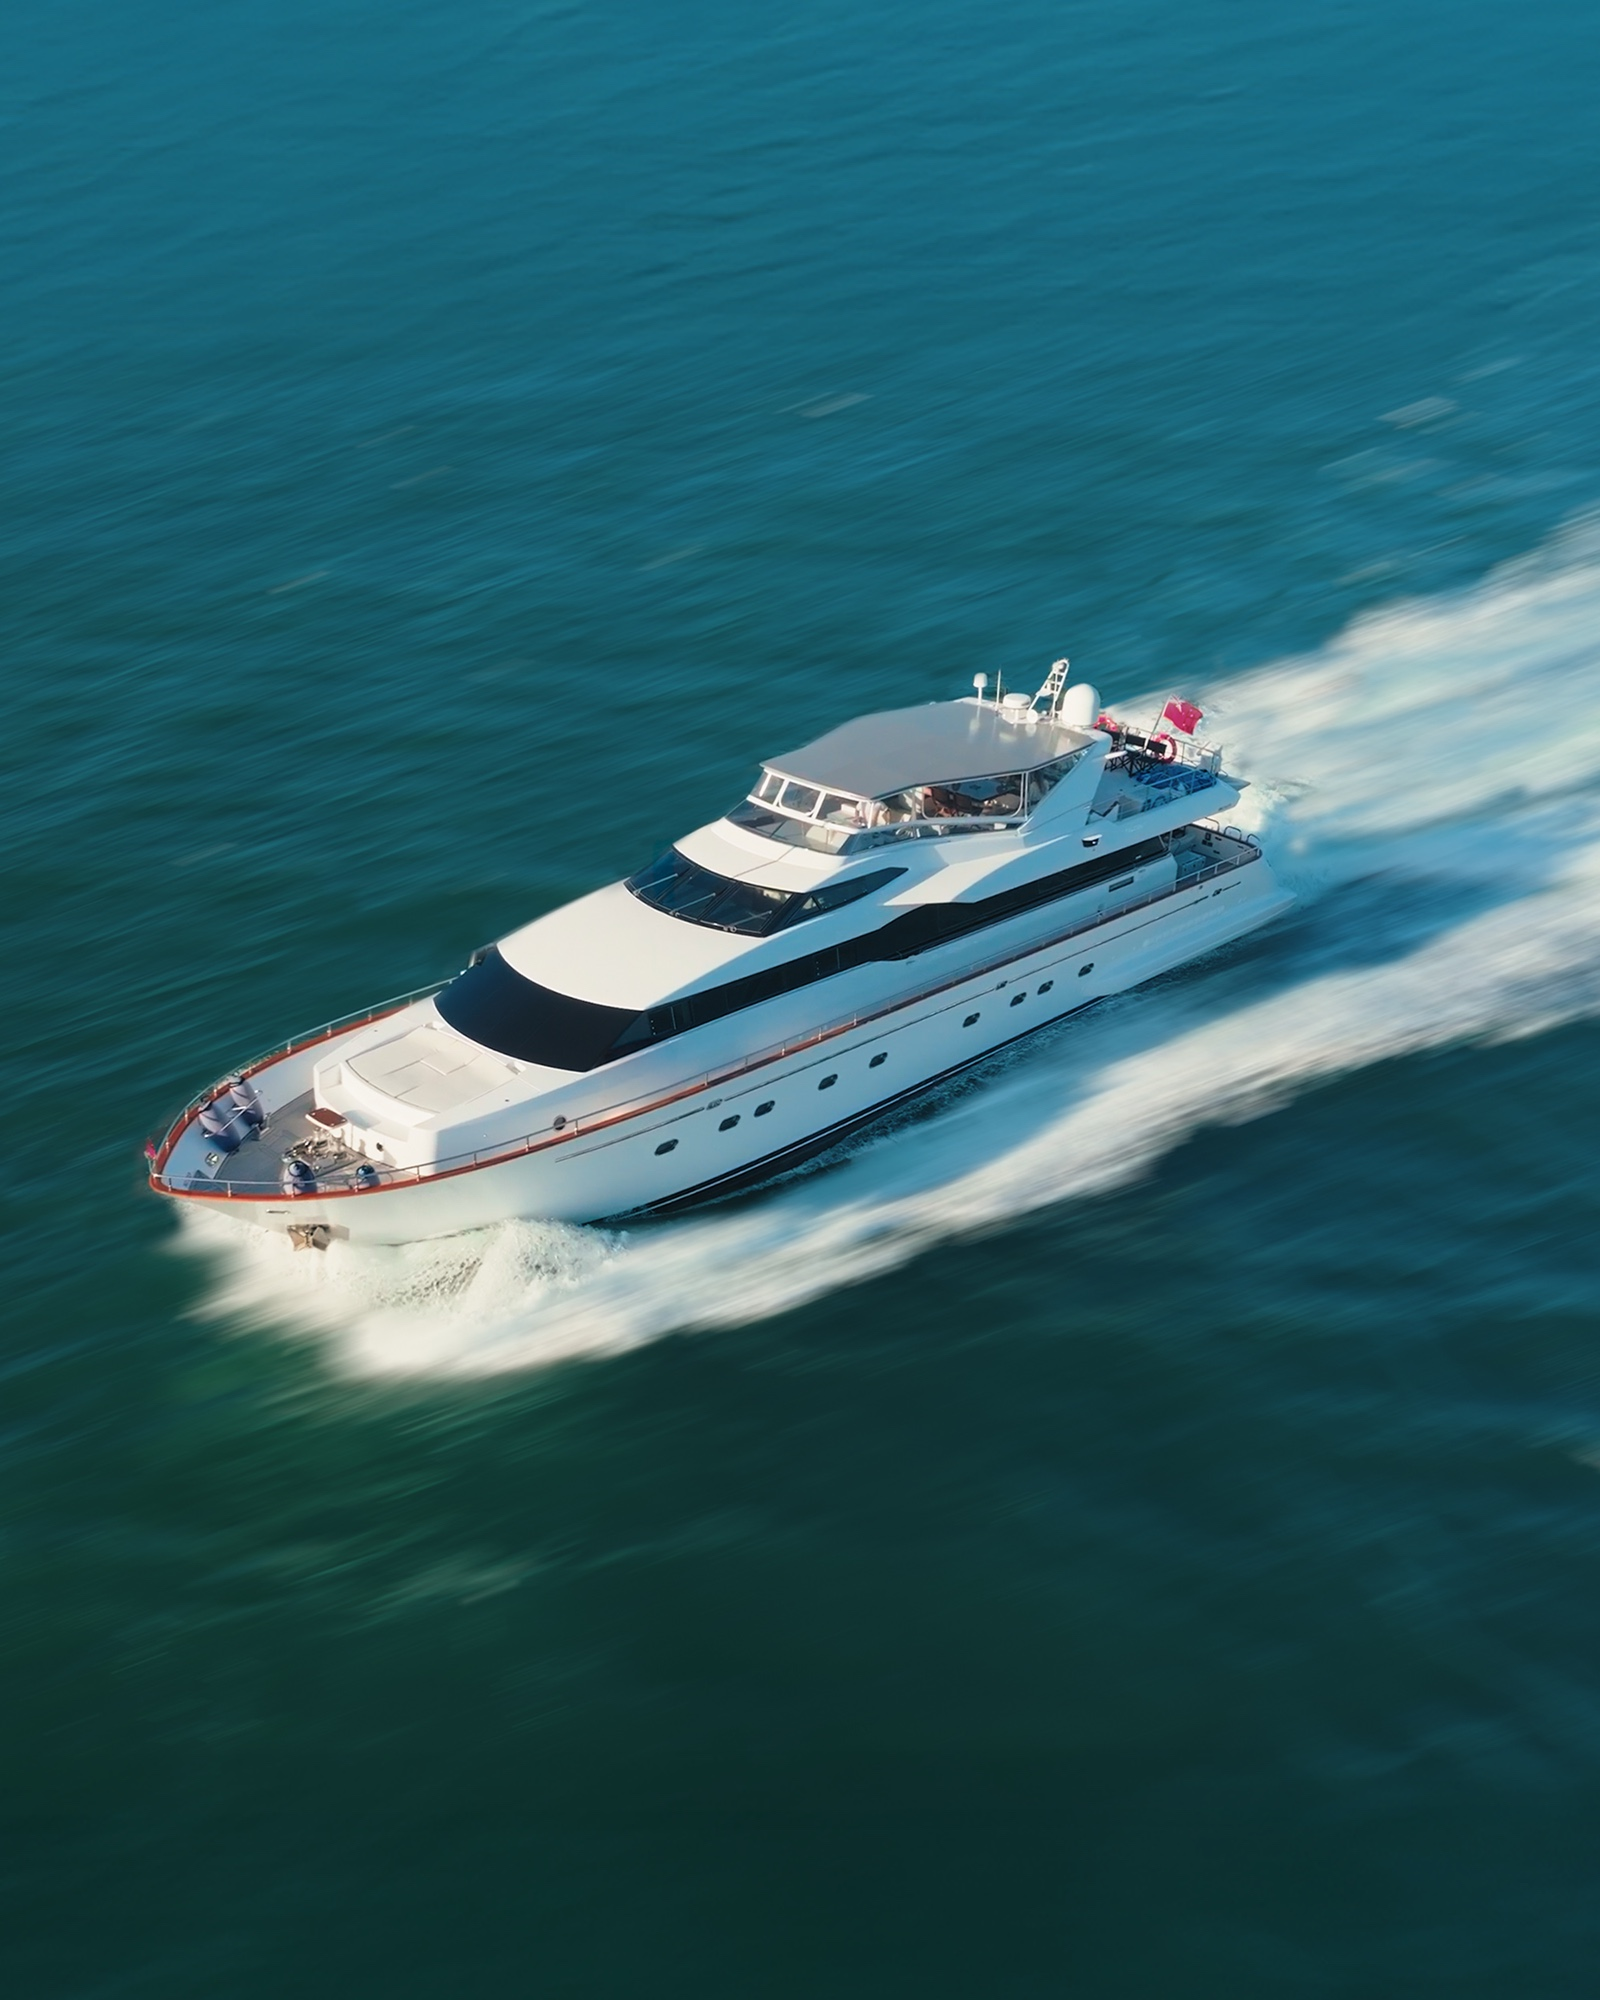
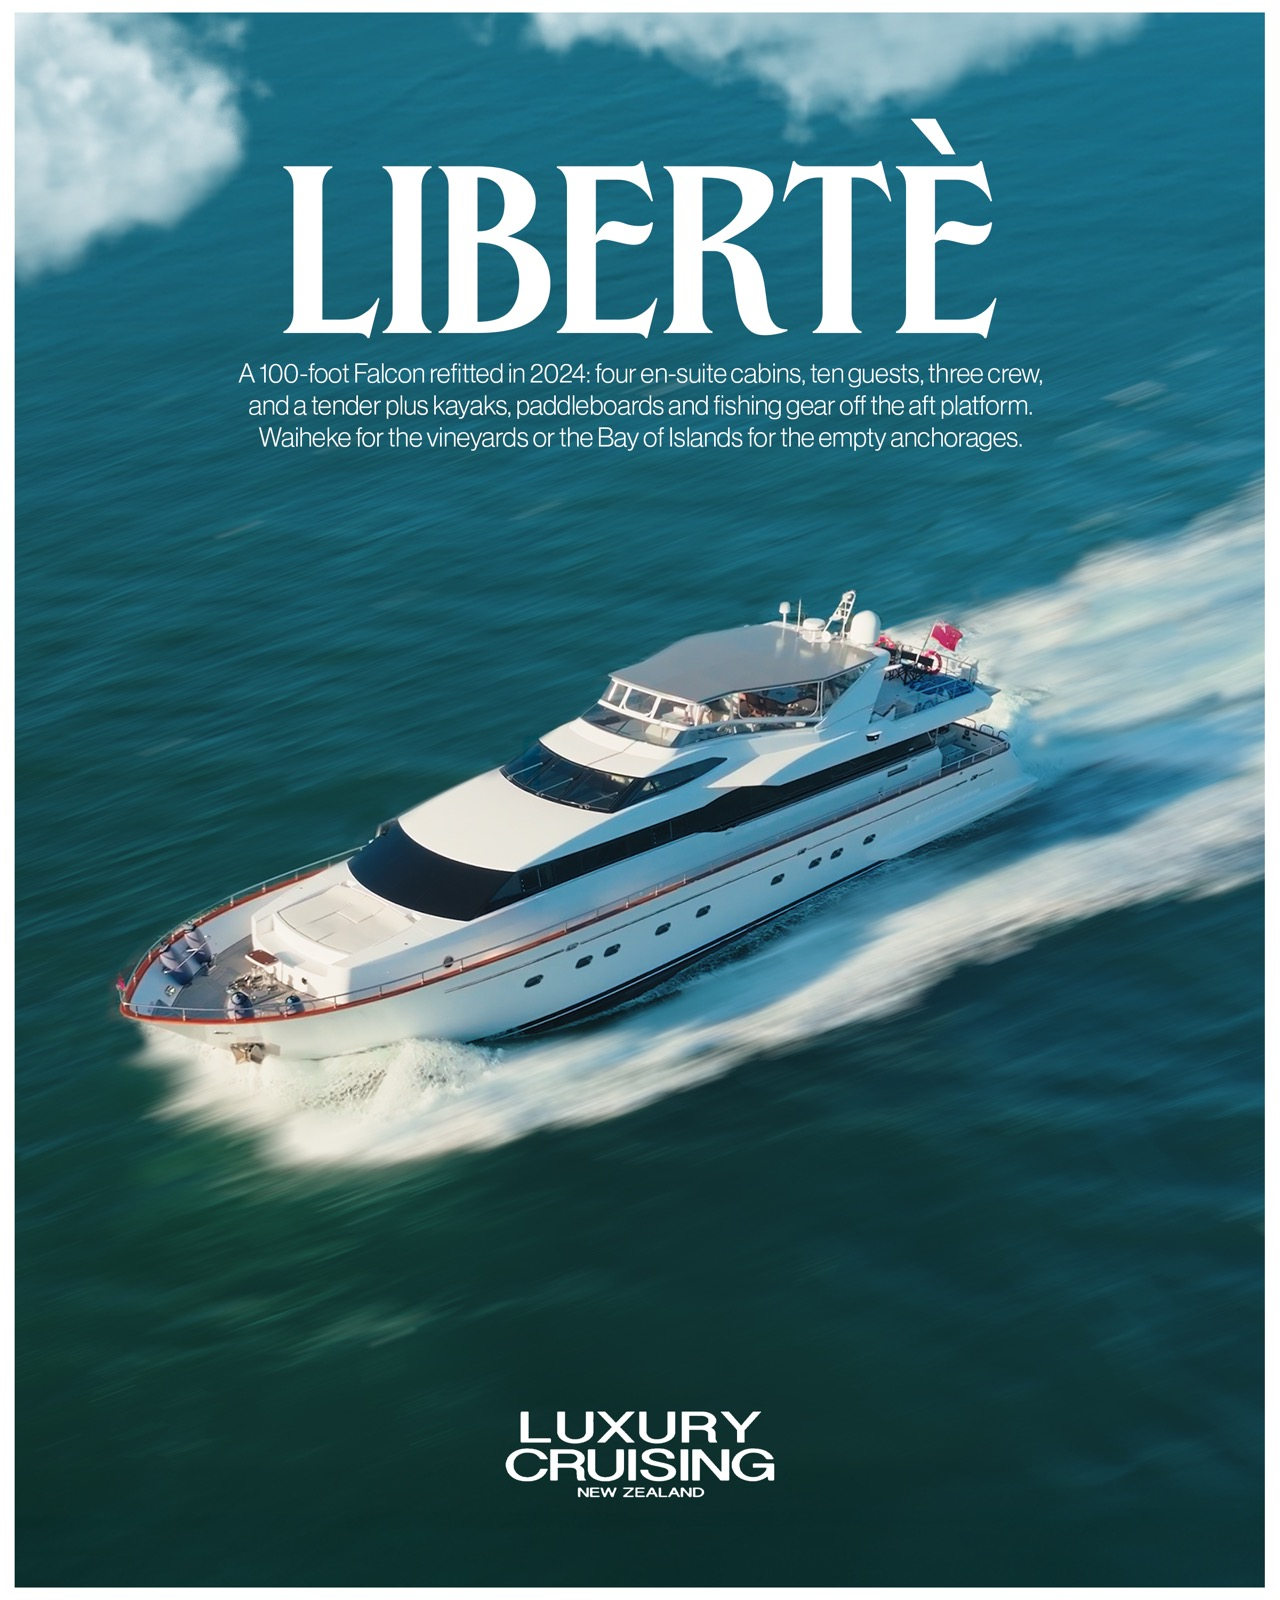
Update Luxury Cruising NZ home page grid image to Liberté poster
Replaces the grid cover with the designed Liberté poster (title,
copy, and Luxury Cruising NZ logo included as-is, per client
request), and updates the alt text to match. Case study hero and
gallery are untouched.

diff --git a/src/lib/work.ts b/src/lib/work.ts
@@ -416,7 +416,7 @@ export const workProjects: WorkProject[] = [
     },
     gridCover: {
       src: "/images/work/luxury-cruising/luxury-cruising-4x5-cover.jpg",
-      alt: "Aerial view of the superyacht Liberté cutting through the water",
+      alt: "Liberté superyacht poster: aerial shot of the vessel underway, with the Luxury Cruising New Zealand logo",
     },
     gallery: [
       { src: "/images/work/luxury-cruising/luxury-cruising-01.jpg", alt: "Liberté cruising past an island near Auckland" },
